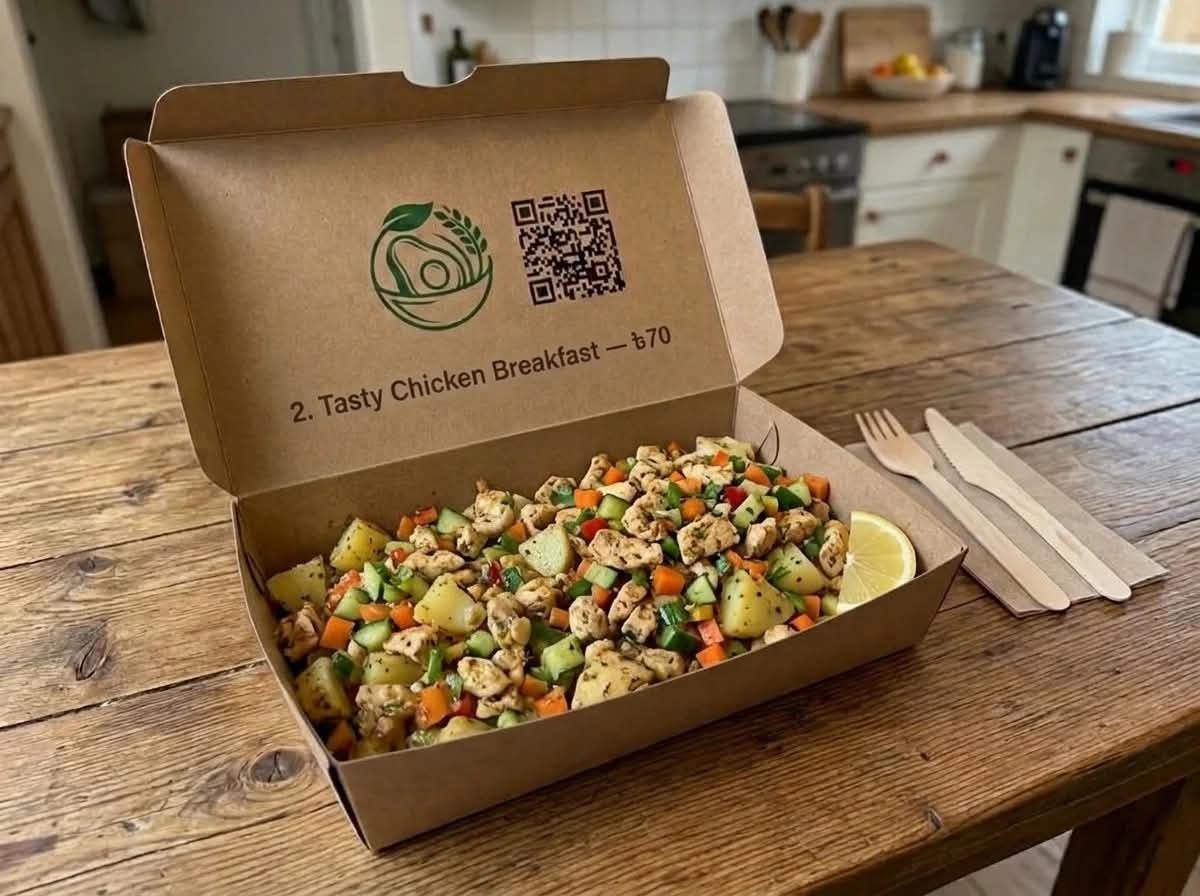
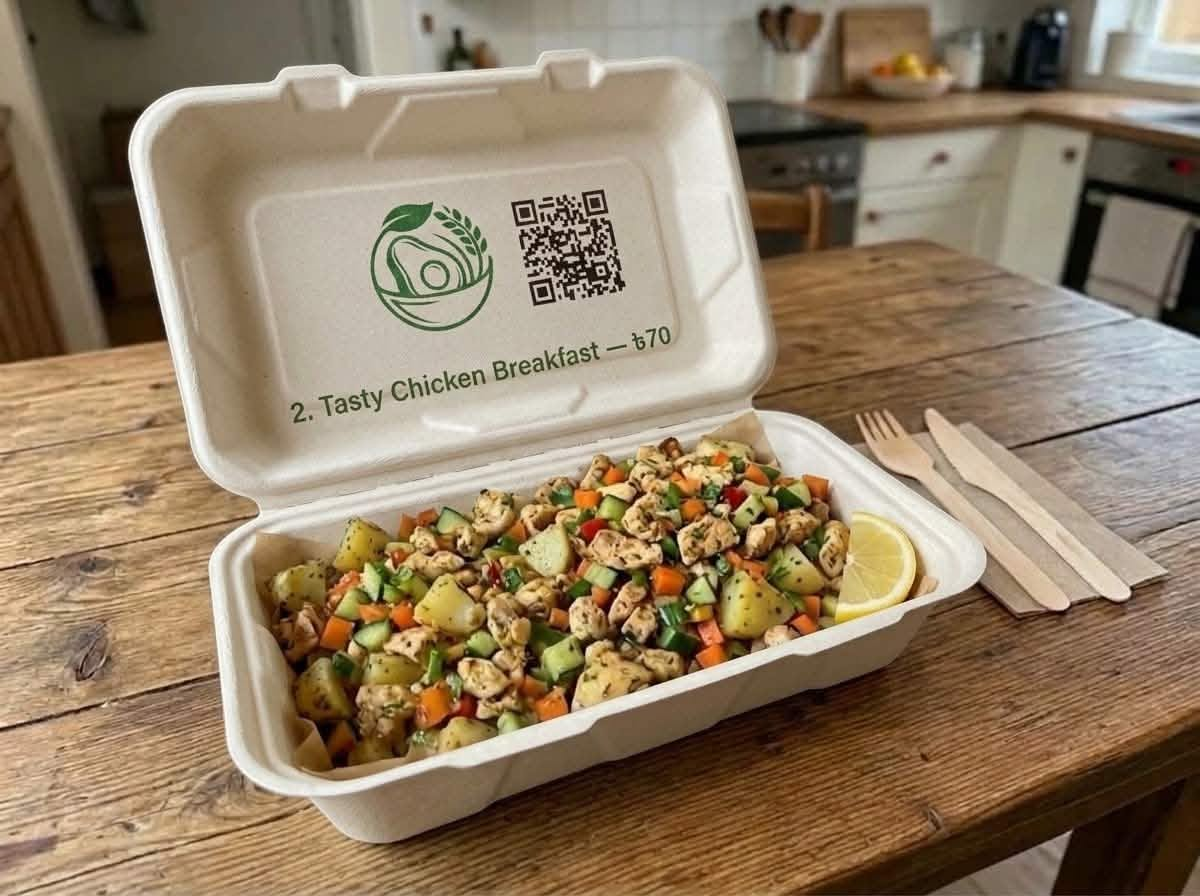
Food-card sliding button bug fixed, food item images updated.

diff --git a/assets/css/style.css b/assets/css/style.css
@@ -1449,29 +1449,30 @@ html.lenis, html.lenis body { height: auto; }
 @media (max-width: 760px) { .hc-grid { grid-template-columns: 1fr; } .hc-card { padding: 20px 18px; } }
 
 /* ---------- home menu carousel ---------- */
-.carousel { position: relative; }
+/* --p reserves just enough side room for the arrows to sit 32px clear of the cards */
+.carousel { position: relative; --p: max(0px, calc(100px - ((100vw - min(100vw, var(--wrap))) / 2 + var(--gutter)))); padding: 0 var(--p); }
 /* the padding leaves room for the card lift and shadow without showing the neighbouring cards */
-.car-view { overflow: hidden; overflow: clip; padding: 16px 24px 52px; margin: -16px -24px -36px; }
+.car-view { overflow: hidden; overflow: clip; padding: 16px 24px 52px; margin: -16px -24px -36px; touch-action: pan-y; }
 .car-track { display: flex; gap: 28px; transition: transform 0.7s cubic-bezier(0.45, 0.05, 0.25, 1), opacity 0.3s var(--ease-hover); touch-action: pan-y; }
 .car-track > .dish { flex: 0 0 calc((100% - 56px) / 3); min-width: 0; }
 .carousel.swapping .car-track { opacity: 0; }
 .carousel.static .car-track { justify-content: center; }
-.car-btn { position: absolute; top: 36%; z-index: 5; width: 56px; height: 56px; margin-top: -28px; padding: 0; border: 1px solid var(--line); border-radius: 50%; background: var(--card); color: var(--forest); box-shadow: var(--sh-2); display: grid; place-items: center; cursor: pointer; transition: background-color var(--t-btn) var(--ease-hover), color var(--t-btn) var(--ease-hover), transform var(--t-btn) var(--ease-hover), opacity var(--t-btn); }
-.car-btn.prev { left: -28px; }
-.car-btn.next { right: -28px; }
+.car-btn { position: absolute; top: 36%; z-index: 5; width: 52px; height: 52px; margin-top: -26px; padding: 0; border: 1px solid var(--line); border-radius: 50%; background: var(--card); color: var(--forest); box-shadow: var(--sh-2); display: grid; place-items: center; cursor: pointer; transition: background-color var(--t-btn) var(--ease-hover), color var(--t-btn) var(--ease-hover), transform var(--t-btn) var(--ease-hover), opacity var(--t-btn); }
+.car-btn.prev { left: calc(var(--p) - 84px); }
+.car-btn.next { right: calc(var(--p) - 84px); }
 .car-btn:hover { background: var(--forest); color: var(--cream-on-dark); transform: scale(1.08); }
 .car-btn:active { transform: scale(0.96); }
 .carousel.static .car-btn { opacity: 0; pointer-events: none; }
 @media (max-width: 1100px) {
   .car-track > .dish { flex-basis: calc((100% - 28px) / 2); }
-  .car-btn.prev { left: -18px; }
-  .car-btn.next { right: -18px; }
+}
+/* phones, tablets and touch screens swipe instead of using arrows */
+@media (max-width: 1100px), (hover: none) and (pointer: coarse) {
+  .carousel { --p: 0px; }
+  .car-btn { display: none; }
 }
 @media (max-width: 760px) {
   .car-view { padding: 10px var(--gutter) 40px; margin: -10px calc(-1 * var(--gutter)) -24px; }
   .car-track { gap: 14px; }
   .car-track > .dish { flex-basis: 90%; }
-  .car-btn { width: 44px; height: 44px; margin-top: -22px; top: 30%; }
-  .car-btn.prev { left: -10px; }
-  .car-btn.next { right: -10px; }
 }

diff --git a/assets/js/data.js b/assets/js/data.js
@@ -257,19 +257,18 @@
       allergens: ["Milk (yogurt)", "Wheat (gluten)"],
     },
     {
-      slug: "chicken-egg-salad",
-      name: "Chicken, Egg & Salad",
-      bn: "মুরগি, ডিম ও সালাদ",
+      slug: "chicken-salad-rice",
+      name: "Chicken, Salad & Rice",
+      bn: "মুরগি, সালাদ ও ভাত",
       meal: "Lunch",
-      plate: "High-Protein",
+      plate: "Balanced",
       price: 99,
-      img: "chicken-egg-salad.jpg",
-      blurb: "Spiced chicken and a boiled egg with rice and a fresh cucumber-carrot salad.",
-      story: "A lighter-feeling lunch that still fills you up. A spiced chicken piece and a boiled egg sit beside a weighed portion of rice, with a crisp salad of cucumber and carrot and a wedge of lemon to squeeze over it.",
+      img: "chicken-salad-rice.jpg",
+      blurb: "Spiced chicken with a weighed portion of rice and a fresh cucumber-carrot salad.",
+      story: "A simple, lighter lunch that still fills you up. A spiced chicken piece sits beside a weighed portion of rice, with a crisp salad of cucumber and carrot and a wedge of lemon to squeeze over it.",
       ingredients: [
         { id: "rice_cooked", amount: 200, unit: "g" },
         { id: "chicken_bonein", amount: 125, unit: "g" },
-        { id: "egg", amount: 1, unit: "piece" },
         { id: "cucumber", amount: 60, unit: "g" },
         { id: "carrot", amount: 40, unit: "g" },
         { id: "lemon", amount: 1, unit: "tsp" },
@@ -282,19 +281,19 @@
       steps: [
         "Marinate the chicken with onion, ginger, garlic, spices and salt for 30 minutes.",
         "Cook the chicken in a measured 8 ml of oil until golden and cooked through.",
-        "Boil the egg for 9 minutes, cool, peel and dust lightly with spice.",
+        "Cook the rice and portion 200 g per box.",
         "Slice the cucumber and carrot just before packing and add a lemon wedge.",
-        "Pack 200 g of cooked rice with the chicken, egg and salad in separate sections.",
+        "Pack the rice, chicken and salad in separate sections of the box.",
       ],
-      allergens: ["Egg"],
+      allergens: [],
     },
     {
       slug: "egg-chicken-veggie-rice",
-      name: "Egg, Chicken & Veggie Rice",
-      bn: "ডিম, মুরগি ও সবজি ভাত",
+      name: "Chicken, Egg & Vegetable Rice",
+      bn: "মুরগি, ডিম ও সবজি ভাত",
       meal: "Lunch",
       plate: "High-Protein",
-      price: 130,
+      price: 145,
       img: "chicken-egg-veg-rice.jpg",
       blurb: "Rice with chicken, an egg and a generous portion of seasonal vegetables.",
       story: "Our most complete lunch box. Two protein sources - chicken and egg - sit beside rice and more vegetables than any other plate on the menu. A good pick for long lab days, sports practice or anyone trying to eat more protein.",

diff --git a/assets/js/home.js b/assets/js/home.js
@@ -122,15 +122,47 @@
     schedule();
   });
   car.addEventListener("focusout", () => { focused = false; schedule(); });
-  let sx = null, sy = 0;
-  grid.addEventListener("touchstart", (e) => { sx = e.touches[0].clientX; sy = e.touches[0].clientY; clearTimeout(timerId); }, { passive: true });
-  grid.addEventListener("touchend", (e) => {
-    if (sx === null) return;
-    const dx = e.changedTouches[0].clientX - sx, dy = e.changedTouches[0].clientY - sy;
-    sx = null;
-    if (Math.abs(dx) > 40 && Math.abs(dx) > Math.abs(dy)) (dx < 0 ? next : prev)();
-    schedule();
+  /* touch screens: the row follows the finger, then settles on the nearest dish */
+  const view = $(".car-view", car);
+  let drag = null;
+  view.addEventListener("touchstart", (e) => {
+    if (moving || e.touches.length > 1 || !canSlide()) return;
+    drag = { x: e.touches[0].clientX, y: e.touches[0].clientY, dx: 0, axis: null, w: 0 };
+    clearTimeout(timerId);
   }, { passive: true });
+  view.addEventListener("touchmove", (e) => {
+    if (!drag) return;
+    const dx = e.touches[0].clientX - drag.x, dy = e.touches[0].clientY - drag.y;
+    if (!drag.axis) {
+      if (Math.abs(dx) < 8 && Math.abs(dy) < 8) return;
+      drag.axis = Math.abs(dx) > Math.abs(dy) ? "x" : "y";
+      if (drag.axis === "x") { // keep one dish ready on the left so both directions work
+        moving = true;
+        const v = shown();
+        grid.prepend(v[v.length - 1]);
+        drag.w = step();
+      }
+    }
+    if (drag.axis !== "x") return; // vertical gesture: let the page scroll
+    drag.dx = Math.max(-drag.w, Math.min(drag.w, dx));
+    place(-drag.w + drag.dx, false);
+  }, { passive: true });
+  function release(cancelled) {
+    const d = drag;
+    drag = null;
+    if (!d) return;
+    if (d.axis !== "x") { schedule(); return; }
+    const dir = cancelled || Math.abs(d.dx) < 40 ? 0 : d.dx < 0 ? 1 : -1;
+    grid.style.transition = "transform 0.4s cubic-bezier(0.25, 0.6, 0.3, 1)";
+    grid.style.transform = `translate3d(${-d.w * (1 + dir)}px,0,0)`;
+    settle(() => {
+      for (let i = 0; i <= dir; i++) grid.appendChild(shown()[0]); // dir 1 → move two, 0 → one, -1 → none
+      place(0, false); void grid.offsetWidth; grid.style.transition = ""; moving = false;
+      schedule();
+    });
+  }
+  view.addEventListener("touchend", () => release(false), { passive: true });
+  view.addEventListener("touchcancel", () => release(true), { passive: true });
   document.addEventListener("visibilitychange", schedule);
   addEventListener("resize", () => { if (!moving) place(0, false); refresh(); });
   new IntersectionObserver(([en]) => { onScreen = en.isIntersecting; schedule(); }, { threshold: 0.25 }).observe(car);

diff --git a/menu/egg-chicken-veggie-rice.html b/menu/egg-chicken-veggie-rice.html
@@ -3,22 +3,22 @@
 <head>
   <meta charset="utf-8">
   <meta name="viewport" content="width=device-width, initial-scale=1">
-  <title>Egg, Chicken & Veggie Rice - Nutri Café</title>
-  <meta name="description" content="Egg, Chicken & Veggie Rice (৳130): about 566 kcal, 34 g protein, 58 g carbs and 20 g fat per box, calculated from the Food Composition Table for Bangladesh. Ingredients, method and reviews.">
+  <title>Chicken, Egg & Vegetable Rice - Nutri Café</title>
+  <meta name="description" content="Chicken, Egg & Vegetable Rice (৳145): about 566 kcal, 34 g protein, 58 g carbs and 20 g fat per box, calculated from the Food Composition Table for Bangladesh. Ingredients, method and reviews.">
   <link rel="icon" href="../assets/img/favicon-64.png" type="image/png">
   <link rel="preconnect" href="https://fonts.googleapis.com">
   <link rel="preconnect" href="https://fonts.gstatic.com" crossorigin>
   <link href="https://fonts.googleapis.com/css2?family=DM+Mono:wght@400;500&family=Figtree:wght@400;500;600;700;800&family=Fraunces:ital,opsz,wght,SOFT,WONK@0,9..144,300..700,0..100,0..1;1,9..144,300..700,0..100,0..1&family=Hind+Siliguri:wght@400;500;600&display=swap" rel="stylesheet">
-  <link rel="stylesheet" href="../assets/css/style.css?v=20">
+  <link rel="stylesheet" href="../assets/css/style.css?v=21">
 </head>
 <body data-page="menu" data-root="../" data-dish="egg-chicken-veggie-rice">
   <header id="site-header"></header>
-  <main id="dish"><noscript><div class="wrap" style="padding:160px 0"><h1>Egg, Chicken & Veggie Rice</h1><p>৳130. Please enable JavaScript to see ingredients and nutrition.</p></div></noscript></main>
+  <main id="dish"><noscript><div class="wrap" style="padding:160px 0"><h1>Chicken, Egg & Vegetable Rice</h1><p>৳145. Please enable JavaScript to see ingredients and nutrition.</p></div></noscript></main>
   <footer id="site-footer"></footer>
   <script src="https://cdn.jsdelivr.net/npm/lenis@1.1.13/dist/lenis.min.js"></script>
-  <script src="../assets/js/site.js?v=20"></script>
-  <script src="../assets/js/data.js?v=20"></script>
-  <script src="../assets/js/render.js?v=20"></script>
-  <script src="../assets/js/dish.js?v=20"></script>
+  <script src="../assets/js/site.js?v=21"></script>
+  <script src="../assets/js/data.js?v=21"></script>
+  <script src="../assets/js/render.js?v=21"></script>
+  <script src="../assets/js/dish.js?v=21"></script>
 </body>
 </html>

diff --git a/journal/how-much-protein-do-students-need.html b/journal/how-much-protein-do-students-need.html
@@ -9,7 +9,7 @@
   <link rel="preconnect" href="https://fonts.googleapis.com">
   <link rel="preconnect" href="https://fonts.gstatic.com" crossorigin>
   <link href="https://fonts.googleapis.com/css2?family=DM+Mono:wght@400;500&family=Figtree:wght@400;500;600;700;800&family=Fraunces:ital,opsz,wght,SOFT,WONK@0,9..144,300..700,0..100,0..1;1,9..144,300..700,0..100,0..1&family=Hind+Siliguri:wght@400;500;600&display=swap" rel="stylesheet">
-  <link rel="stylesheet" href="../assets/css/style.css?v=20">
+  <link rel="stylesheet" href="../assets/css/style.css?v=21">
 </head>
 <body data-page="journal" data-root="../" data-post="how-much-protein-do-students-need">
   <div class="read-progress"></div>
@@ -87,7 +87,7 @@
           <h4>Protein on the Nutri Café menu</h4>
           <ul>
             <li>Egg, Chickpea &amp; Salad Bowl: ≈ 18 g for ৳50.</li>
-            <li>Egg, Chicken &amp; Veggie Rice: ≈ 34 g for ৳130.</li>
+            <li>Chicken, Egg &amp; Vegetable Rice: ≈ 34 g for ৳145.</li>
             <li>Rohu Fish Protein Meal: ≈ 35 g for ৳190.</li>
             <li>See every dish compared side by side on the <a href="../menu.html">menu page</a>.</li>
           </ul>
@@ -117,8 +117,8 @@
   </main>
   <footer id="site-footer"></footer>
   <script src="https://cdn.jsdelivr.net/npm/lenis@1.1.13/dist/lenis.min.js"></script>
-  <script src="../assets/js/site.js?v=20"></script>
-  <script src="../assets/js/posts.js?v=20"></script>
-  <script src="../assets/js/journal.js?v=20"></script>
+  <script src="../assets/js/site.js?v=21"></script>
+  <script src="../assets/js/posts.js?v=21"></script>
+  <script src="../assets/js/journal.js?v=21"></script>
 </body>
 </html>

diff --git a/menu/chicken-salad-rice.html b/menu/chicken-salad-rice.html
@@ -1,0 +1,24 @@
+<!doctype html>
+<html lang="en">
+<head>
+  <meta charset="utf-8">
+  <meta name="viewport" content="width=device-width, initial-scale=1">
+  <title>Chicken, Salad & Rice - Nutri Café</title>
+  <meta name="description" content="Chicken, Salad & Rice (৳99): about 452 kcal, 25 g protein, 58 g carbs and 12 g fat per box, calculated from the Food Composition Table for Bangladesh. Ingredients, method and reviews.">
+  <link rel="icon" href="../assets/img/favicon-64.png" type="image/png">
+  <link rel="preconnect" href="https://fonts.googleapis.com">
+  <link rel="preconnect" href="https://fonts.gstatic.com" crossorigin>
+  <link href="https://fonts.googleapis.com/css2?family=DM+Mono:wght@400;500&family=Figtree:wght@400;500;600;700;800&family=Fraunces:ital,opsz,wght,SOFT,WONK@0,9..144,300..700,0..100,0..1;1,9..144,300..700,0..100,0..1&family=Hind+Siliguri:wght@400;500;600&display=swap" rel="stylesheet">
+  <link rel="stylesheet" href="../assets/css/style.css?v=21">
+</head>
+<body data-page="menu" data-root="../" data-dish="chicken-salad-rice">
+  <header id="site-header"></header>
+  <main id="dish"><noscript><div class="wrap" style="padding:160px 0"><h1>Chicken, Salad & Rice</h1><p>৳99. Please enable JavaScript to see ingredients and nutrition.</p></div></noscript></main>
+  <footer id="site-footer"></footer>
+  <script src="https://cdn.jsdelivr.net/npm/lenis@1.1.13/dist/lenis.min.js"></script>
+  <script src="../assets/js/site.js?v=21"></script>
+  <script src="../assets/js/data.js?v=21"></script>
+  <script src="../assets/js/render.js?v=21"></script>
+  <script src="../assets/js/dish.js?v=21"></script>
+</body>
+</html>

diff --git a/menu/egg-chickpea-salad-bowl.html b/menu/egg-chickpea-salad-bowl.html
@@ -9,16 +9,16 @@
   <link rel="preconnect" href="https://fonts.googleapis.com">
   <link rel="preconnect" href="https://fonts.gstatic.com" crossorigin>
   <link href="https://fonts.googleapis.com/css2?family=DM+Mono:wght@400;500&family=Figtree:wght@400;500;600;700;800&family=Fraunces:ital,opsz,wght,SOFT,WONK@0,9..144,300..700,0..100,0..1;1,9..144,300..700,0..100,0..1&family=Hind+Siliguri:wght@400;500;600&display=swap" rel="stylesheet">
-  <link rel="stylesheet" href="../assets/css/style.css?v=20">
+  <link rel="stylesheet" href="../assets/css/style.css?v=21">
 </head>
 <body data-page="menu" data-root="../" data-dish="egg-chickpea-salad-bowl">
   <header id="site-header"></header>
   <main id="dish"><noscript><div class="wrap" style="padding:160px 0"><h1>Egg, Chickpea & Salad Bowl</h1><p>৳50. Please enable JavaScript to see ingredients and nutrition.</p></div></noscript></main>
   <footer id="site-footer"></footer>
   <script src="https://cdn.jsdelivr.net/npm/lenis@1.1.13/dist/lenis.min.js"></script>
-  <script src="../assets/js/site.js?v=20"></script>
-  <script src="../assets/js/data.js?v=20"></script>
-  <script src="../assets/js/render.js?v=20"></script>
-  <script src="../assets/js/dish.js?v=20"></script>
+  <script src="../assets/js/site.js?v=21"></script>
+  <script src="../assets/js/data.js?v=21"></script>
+  <script src="../assets/js/render.js?v=21"></script>
+  <script src="../assets/js/dish.js?v=21"></script>
 </body>
 </html>

diff --git a/menu/tasty-chicken-breakfast.html b/menu/tasty-chicken-breakfast.html
@@ -9,16 +9,16 @@
   <link rel="preconnect" href="https://fonts.googleapis.com">
   <link rel="preconnect" href="https://fonts.gstatic.com" crossorigin>
   <link href="https://fonts.googleapis.com/css2?family=DM+Mono:wght@400;500&family=Figtree:wght@400;500;600;700;800&family=Fraunces:ital,opsz,wght,SOFT,WONK@0,9..144,300..700,0..100,0..1;1,9..144,300..700,0..100,0..1&family=Hind+Siliguri:wght@400;500;600&display=swap" rel="stylesheet">
-  <link rel="stylesheet" href="../assets/css/style.css?v=20">
+  <link rel="stylesheet" href="../assets/css/style.css?v=21">
 </head>
 <body data-page="menu" data-root="../" data-dish="tasty-chicken-breakfast">
   <header id="site-header"></header>
   <main id="dish"><noscript><div class="wrap" style="padding:160px 0"><h1>Tasty Chicken Breakfast</h1><p>৳70. Please enable JavaScript to see ingredients and nutrition.</p></div></noscript></main>
   <footer id="site-footer"></footer>
   <script src="https://cdn.jsdelivr.net/npm/lenis@1.1.13/dist/lenis.min.js"></script>
-  <script src="../assets/js/site.js?v=20"></script>
-  <script src="../assets/js/data.js?v=20"></script>
-  <script src="../assets/js/render.js?v=20"></script>
-  <script src="../assets/js/dish.js?v=20"></script>
+  <script src="../assets/js/site.js?v=21"></script>
+  <script src="../assets/js/data.js?v=21"></script>
+  <script src="../assets/js/render.js?v=21"></script>
+  <script src="../assets/js/dish.js?v=21"></script>
 </body>
 </html>

diff --git a/menu/rohu-fish-protein-meal.html b/menu/rohu-fish-protein-meal.html
@@ -9,16 +9,16 @@
   <link rel="preconnect" href="https://fonts.googleapis.com">
   <link rel="preconnect" href="https://fonts.gstatic.com" crossorigin>
   <link href="https://fonts.googleapis.com/css2?family=DM+Mono:wght@400;500&family=Figtree:wght@400;500;600;700;800&family=Fraunces:ital,opsz,wght,SOFT,WONK@0,9..144,300..700,0..100,0..1;1,9..144,300..700,0..100,0..1&family=Hind+Siliguri:wght@400;500;600&display=swap" rel="stylesheet">
-  <link rel="stylesheet" href="../assets/css/style.css?v=20">
+  <link rel="stylesheet" href="../assets/css/style.css?v=21">
 </head>
 <body data-page="menu" data-root="../" data-dish="rohu-fish-protein-meal">
   <header id="site-header"></header>
   <main id="dish"><noscript><div class="wrap" style="padding:160px 0"><h1>Rohu Fish Protein Meal</h1><p>৳190. Please enable JavaScript to see ingredients and nutrition.</p></div></noscript></main>
   <footer id="site-footer"></footer>
   <script src="https://cdn.jsdelivr.net/npm/lenis@1.1.13/dist/lenis.min.js"></script>
-  <script src="../assets/js/site.js?v=20"></script>
-  <script src="../assets/js/data.js?v=20"></script>
-  <script src="../assets/js/render.js?v=20"></script>
-  <script src="../assets/js/dish.js?v=20"></script>
+  <script src="../assets/js/site.js?v=21"></script>
+  <script src="../assets/js/data.js?v=21"></script>
+  <script src="../assets/js/render.js?v=21"></script>
+  <script src="../assets/js/dish.js?v=21"></script>
 </body>
 </html>

diff --git a/menu/chicken-vegetable-wrap.html b/menu/chicken-vegetable-wrap.html
@@ -9,16 +9,16 @@
   <link rel="preconnect" href="https://fonts.googleapis.com">
   <link rel="preconnect" href="https://fonts.gstatic.com" crossorigin>
   <link href="https://fonts.googleapis.com/css2?family=DM+Mono:wght@400;500&family=Figtree:wght@400;500;600;700;800&family=Fraunces:ital,opsz,wght,SOFT,WONK@0,9..144,300..700,0..100,0..1;1,9..144,300..700,0..100,0..1&family=Hind+Siliguri:wght@400;500;600&display=swap" rel="stylesheet">
-  <link rel="stylesheet" href="../assets/css/style.css?v=20">
+  <link rel="stylesheet" href="../assets/css/style.css?v=21">
 </head>
 <body data-page="menu" data-root="../" data-dish="chicken-vegetable-wrap">
   <header id="site-header"></header>
   <main id="dish"><noscript><div class="wrap" style="padding:160px 0"><h1>Chicken-Vegetable Wrap</h1><p>৳80. Please enable JavaScript to see ingredients and nutrition.</p></div></noscript></main>
   <footer id="site-footer"></footer>
   <script src="https://cdn.jsdelivr.net/npm/lenis@1.1.13/dist/lenis.min.js"></script>
-  <script src="../assets/js/site.js?v=20"></script>
-  <script src="../assets/js/data.js?v=20"></script>
-  <script src="../assets/js/render.js?v=20"></script>
-  <script src="../assets/js/dish.js?v=20"></script>
+  <script src="../assets/js/site.js?v=21"></script>
+  <script src="../assets/js/data.js?v=21"></script>
+  <script src="../assets/js/render.js?v=21"></script>
+  <script src="../assets/js/dish.js?v=21"></script>
 </body>
 </html>

diff --git a/calculator.html b/calculator.html
@@ -9,7 +9,7 @@
   <link rel="preconnect" href="https://fonts.googleapis.com">
   <link rel="preconnect" href="https://fonts.gstatic.com" crossorigin>
   <link href="https://fonts.googleapis.com/css2?family=DM+Mono:wght@400;500&family=Figtree:wght@400;500;600;700;800&family=Fraunces:ital,opsz,wght,SOFT,WONK@0,9..144,300..700,0..100,0..1;1,9..144,300..700,0..100,0..1&family=Hind+Siliguri:wght@400;500;600&display=swap" rel="stylesheet">
-  <link rel="stylesheet" href="assets/css/style.css?v=20">
+  <link rel="stylesheet" href="assets/css/style.css?v=21">
 </head>
 <body data-page="calculator">
   <header id="site-header"></header>
@@ -155,10 +155,10 @@
   </main>
   <footer id="site-footer"></footer>
   <script src="https://cdn.jsdelivr.net/npm/lenis@1.1.13/dist/lenis.min.js"></script>
-  <script src="assets/js/site.js?v=20"></script>
-  <script src="assets/js/data.js?v=20"></script>
-  <script src="assets/js/render.js?v=20"></script>
-  <script src="assets/js/health.js?v=20"></script>
-  <script src="assets/js/calc.js?v=20"></script>
+  <script src="assets/js/site.js?v=21"></script>
+  <script src="assets/js/data.js?v=21"></script>
+  <script src="assets/js/render.js?v=21"></script>
+  <script src="assets/js/health.js?v=21"></script>
+  <script src="assets/js/calc.js?v=21"></script>
 </body>
 </html>

diff --git a/index.html b/index.html
@@ -9,7 +9,7 @@
   <link rel="preconnect" href="https://fonts.googleapis.com">
   <link rel="preconnect" href="https://fonts.gstatic.com" crossorigin>
   <link href="https://fonts.googleapis.com/css2?family=DM+Mono:wght@400;500&family=Figtree:wght@400;500;600;700;800&family=Fraunces:ital,opsz,wght,SOFT,WONK@0,9..144,300..700,0..100,0..1;1,9..144,300..700,0..100,0..1&family=Hind+Siliguri:wght@400;500;600&display=swap" rel="stylesheet">
-  <link rel="stylesheet" href="assets/css/style.css?v=20">
+  <link rel="stylesheet" href="assets/css/style.css?v=21">
 </head>
 <body data-page="home">
   <header id="site-header"></header>
@@ -266,10 +266,10 @@
   <footer id="site-footer"></footer>
 
   <script src="https://cdn.jsdelivr.net/npm/lenis@1.1.13/dist/lenis.min.js"></script>
-  <script src="assets/js/site.js?v=20"></script>
-  <script src="assets/js/data.js?v=20"></script>
-  <script src="assets/js/render.js?v=20"></script>
-  <script src="assets/js/posts.js?v=20"></script>
-  <script src="assets/js/home.js?v=20"></script>
+  <script src="assets/js/site.js?v=21"></script>
+  <script src="assets/js/data.js?v=21"></script>
+  <script src="assets/js/render.js?v=21"></script>
+  <script src="assets/js/posts.js?v=21"></script>
+  <script src="assets/js/home.js?v=21"></script>
 </body>
 </html>
